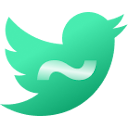
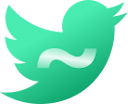
fine tune tweet preview header stylingss

diff --git a/src/react/styles.css b/src/react/styles.css
@@ -120,6 +120,7 @@
   display: inline-block;
   content: "\00d7"; /* This will render the 'X' */
   font-size: 26px;
+  line-height: 26px;
   margin: 0;
   color: #1b231f;
 }
@@ -293,5 +294,5 @@ div#twitter-link p {
 }
 #extension-icon {
   width: auto;
-  height: 40px;
+  height: 28px;
 }
